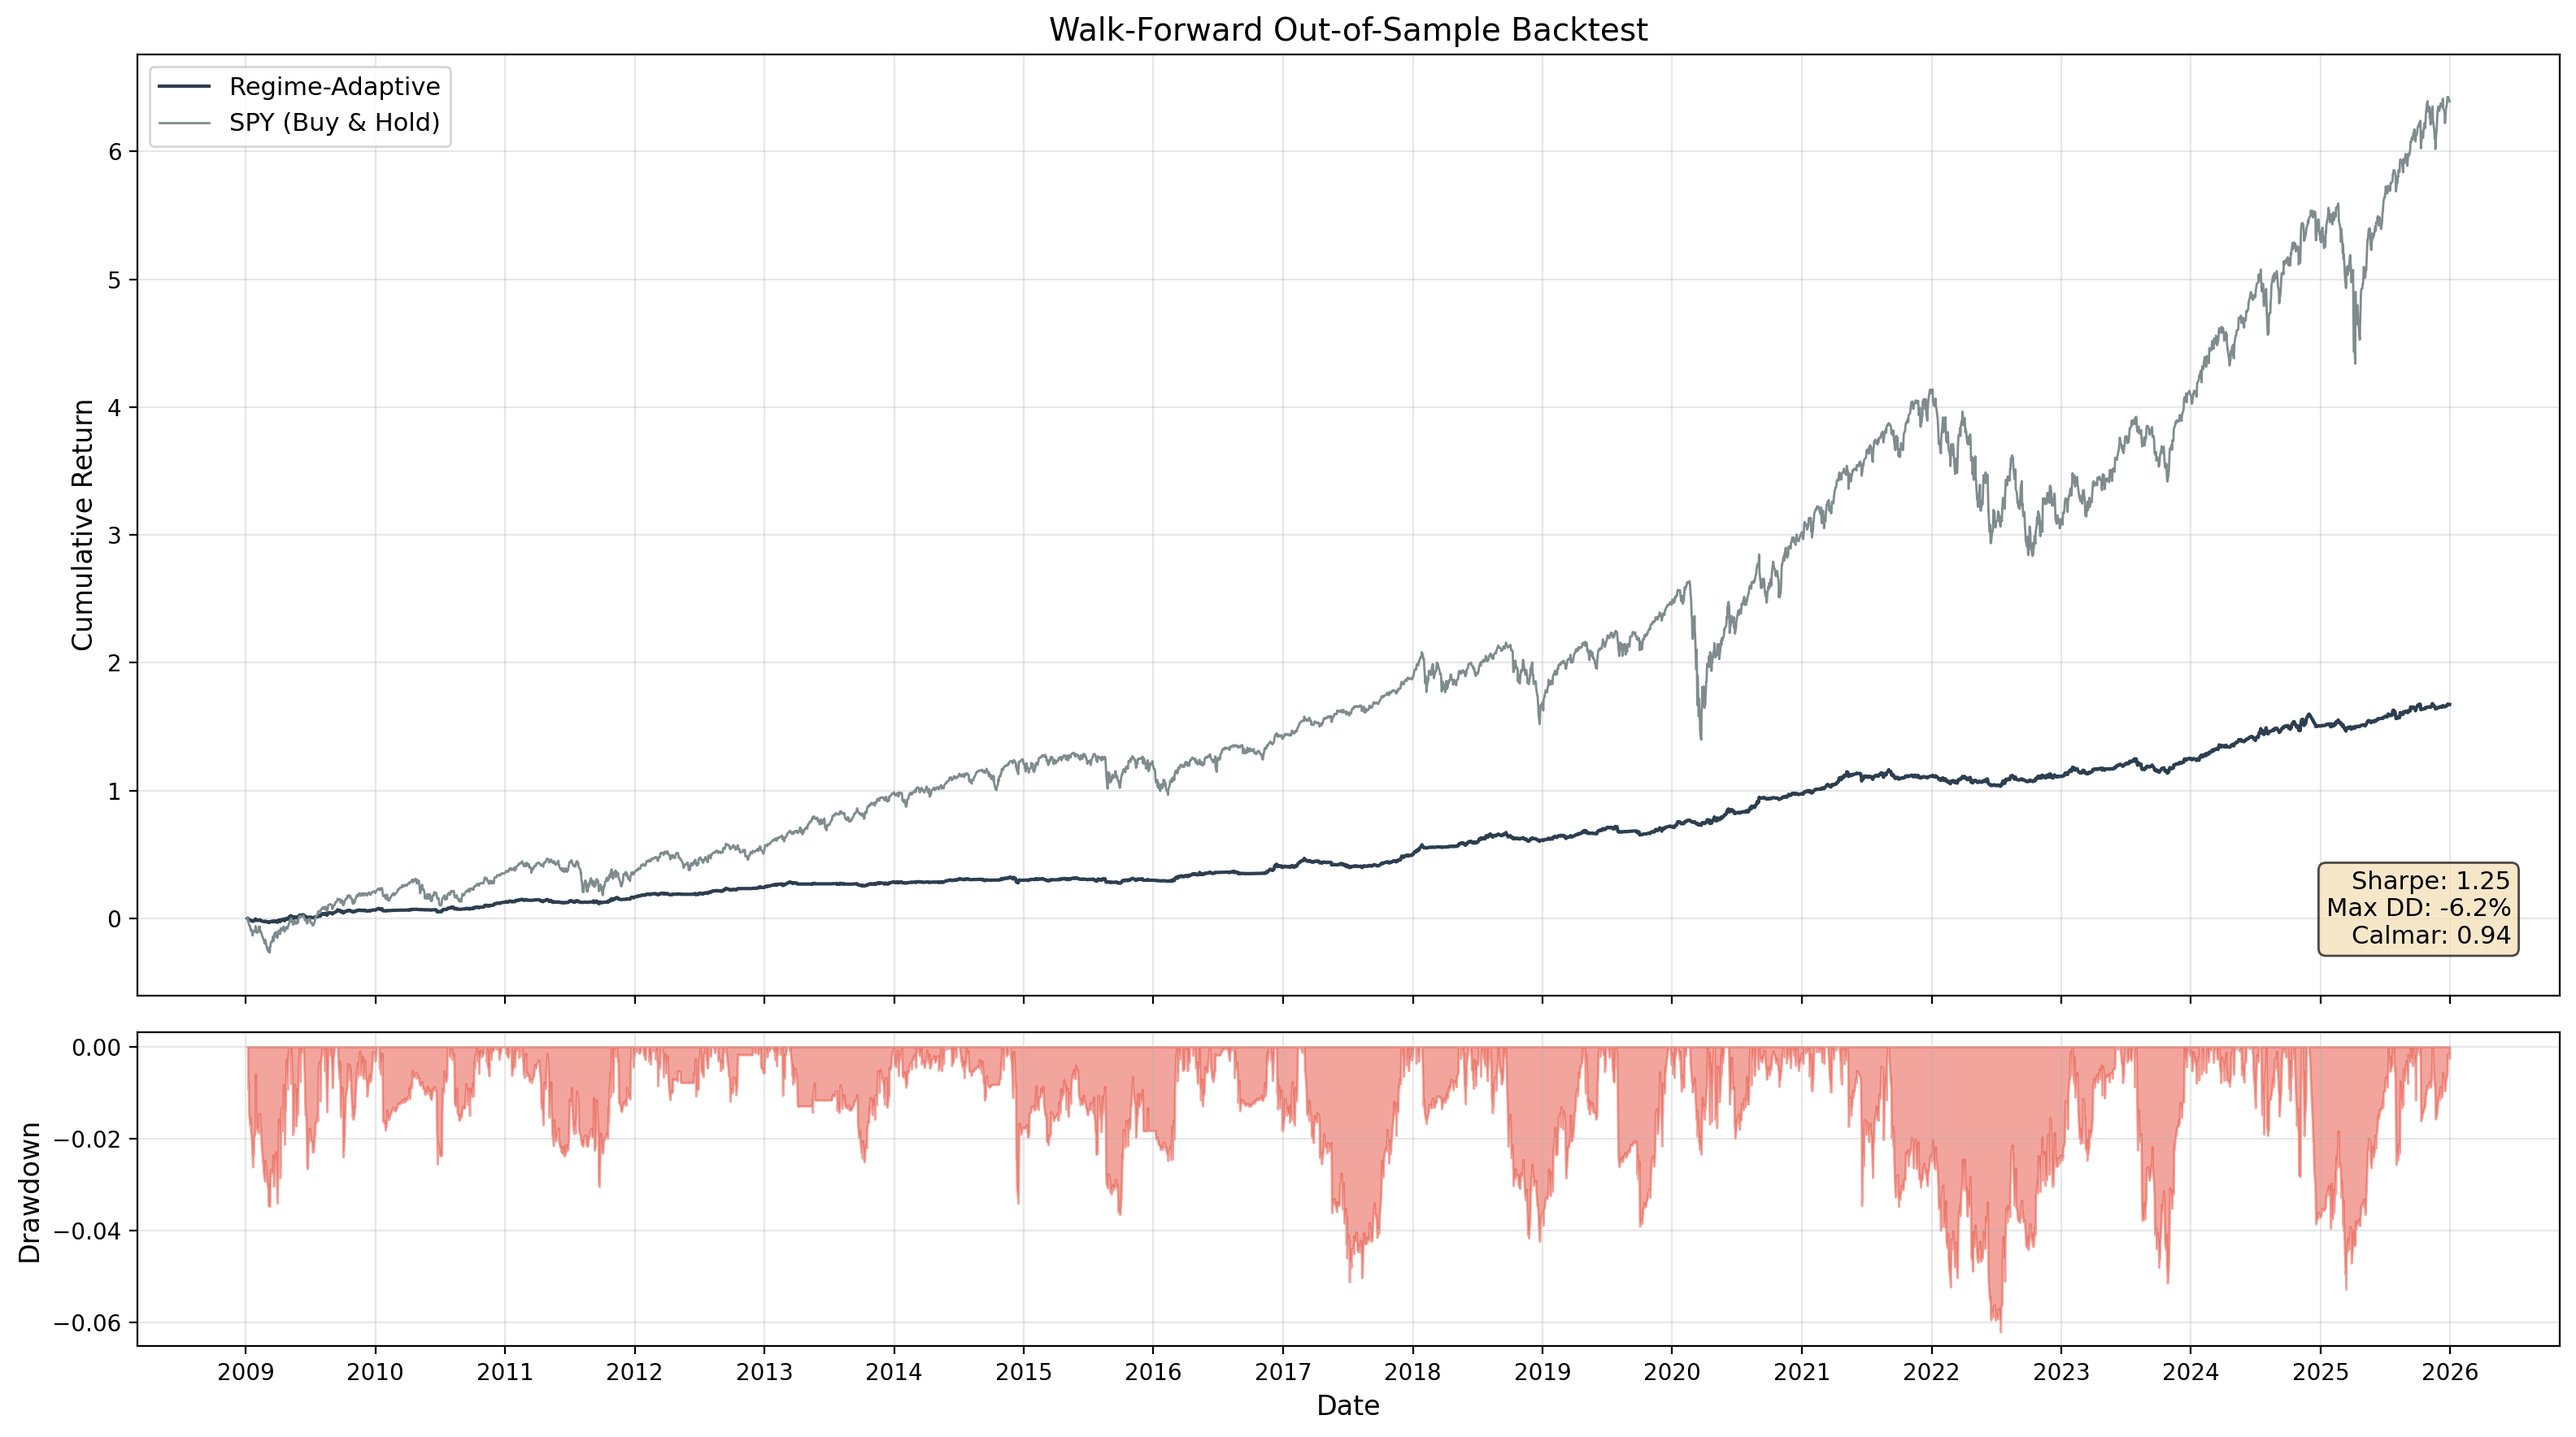
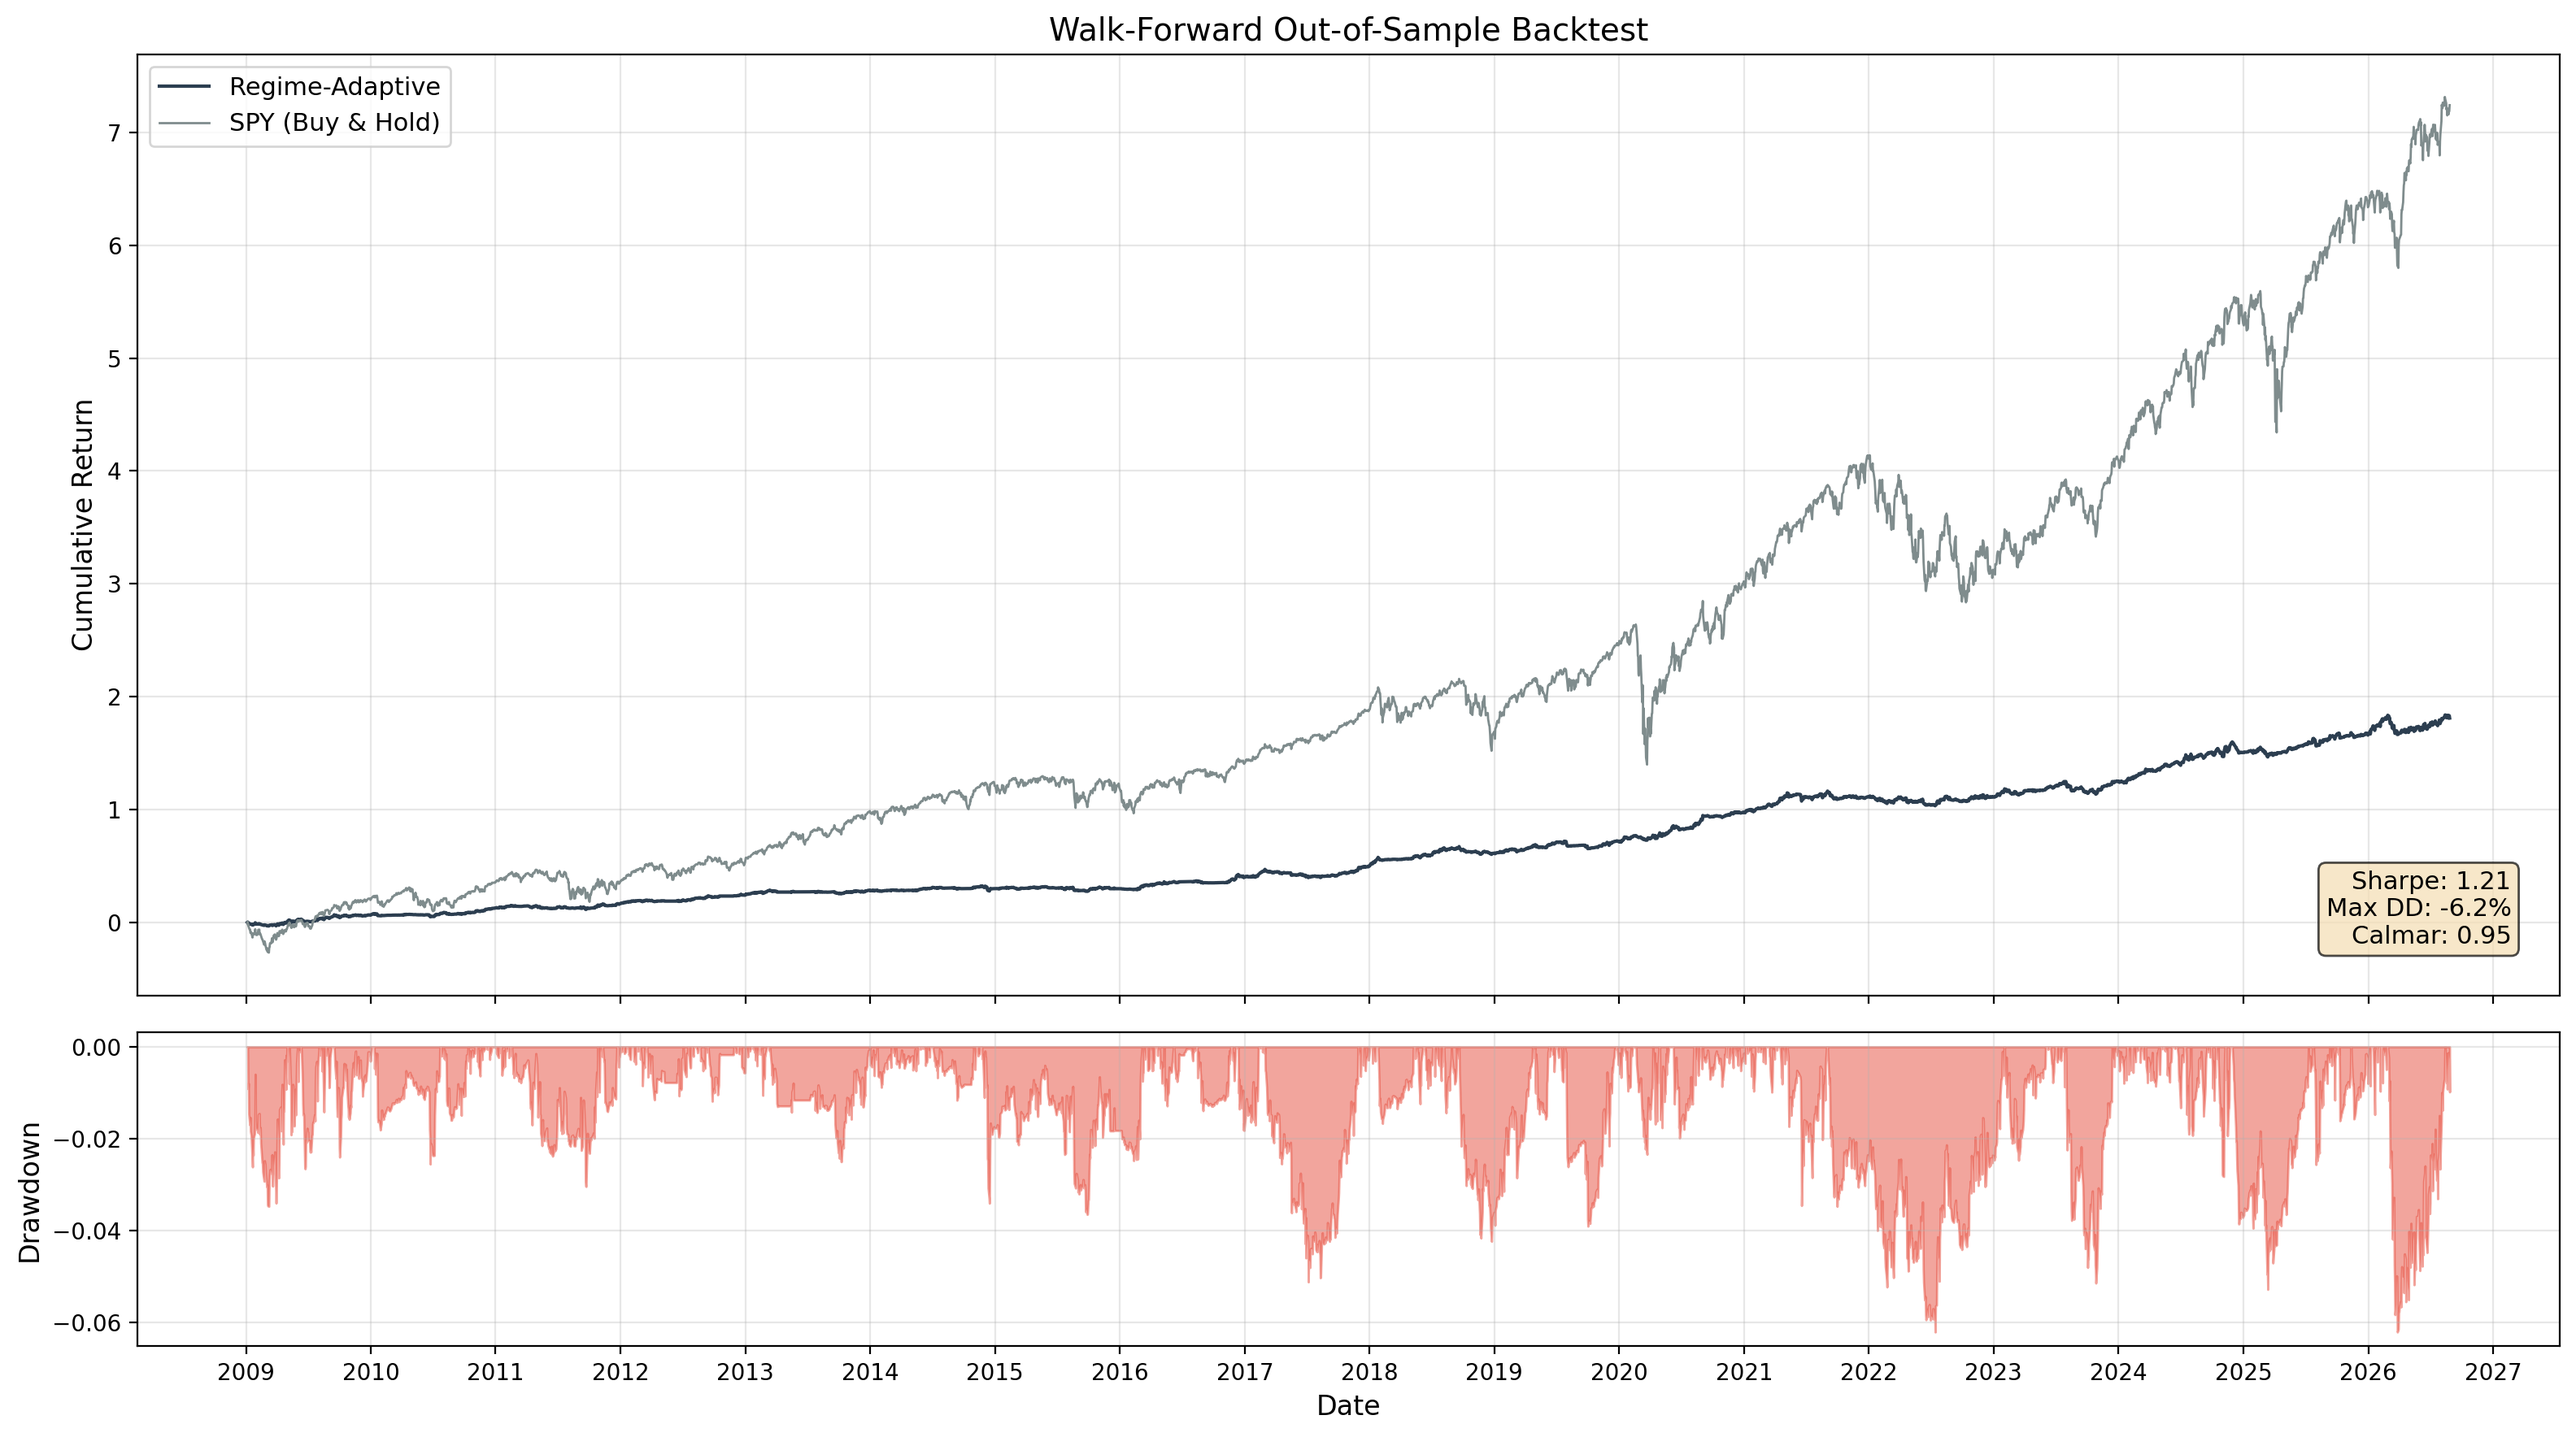
Refresh backtest outputs/figures from latest run; gitignore stray .venv_tmp

diff --git a/config.py b/config.py
@@ -8,7 +8,7 @@ fixed transaction costs) that define the experimental setup.
 
 # ── Date range ────────────────────────────────────────────────────────────────
 DATA_START_DATE: str = "2007-01-01"   # Pre-GFC for regime diversity
-DATA_END_DATE: str = "2025-12-31"
+DATA_END_DATE: str = "2026-08-29"     # extended for OOS re-run (was 2025-12-31)
 
 # ── Walk-forward parameters (trading days) ────────────────────────────────────
 WALK_FORWARD_MIN_TRAIN: int = 504    # 2 years minimum training window
